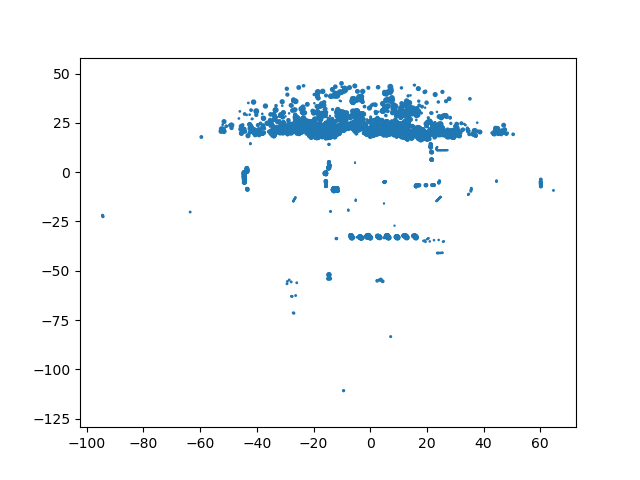
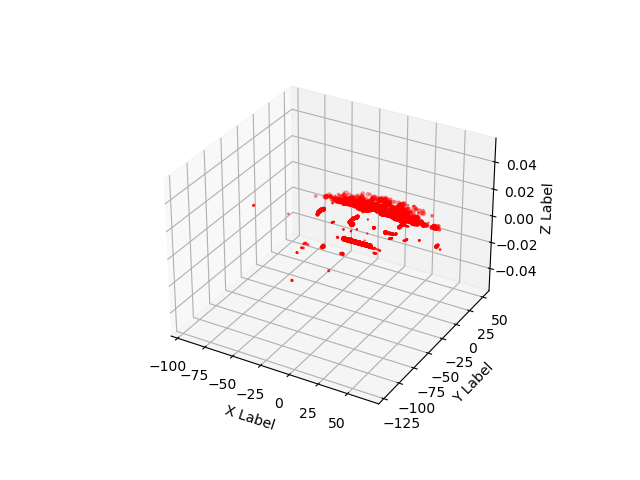
3d

diff --git a/main.py b/main.py
@@ -20,7 +20,12 @@ print("lidar_xyz.shape: ", lidar_xyz.shape)
 lidar_x = lidar_xyz[:,0]
 lidar_y = lidar_xyz[:,1]
 lidar_z = lidar_xyz[:,2]
-plt.scatter(lidar_x, lidar_y, lidar_z)
+fig = plt.figure()
+ax = fig.add_subplot(111, projection='3d')
+plt.scatter(lidar_x, lidar_y, lidar_z,c='r', marker='o')
+ax.set_xlabel('X Label')
+ax.set_ylabel('Y Label')
+ax.set_zlabel('Z Label')
 plt.savefig("lidar_xyz.png")
 print("========================experiment space========================")
 
@@ -52,5 +57,5 @@ print(dist.shape)
 # pdb.set_trace()
 # lidar_img = np.zeros()
 
-plt.imshow(img)
+#plt.imshow(img)
 plt.savefig('result.png')
